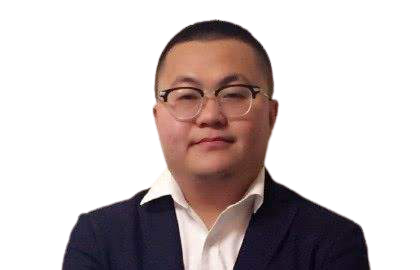
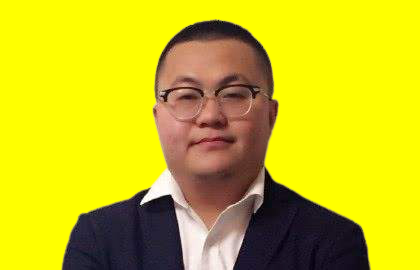
second commit

diff --git a/RemoveBG_Color.py b/RemoveBG_Color.py
@@ -17,7 +17,7 @@ Imgname = "sunxiaochuan.jpeg"
 outImagePath = ""
 
 # 需要替换的颜色 RGB 值
-changeColor = (255, 255, 255)  # 白色
+changeColor = (255, 255, 0)  # 白色
 
 
 folder = os.getcwd() + '\\img\\'

diff --git a/README.md b/README.md
@@ -1,1 +1,73 @@
 # Focus-removebg
+
+本项目为利用removebg的接口实现的自动替换证件照背景色的PYTHON小工具，并随项目一共副赠几个已经申请了的API接口，每一个API接口每个月可以免费使用50次。
+
+#### 运行前需求：
+
+安装pillow使用
+
+> pip install pillow
+
+或者
+
+> pip install -r requirements.txt
+
+#### 运行时：
+
+直接python RemoveBG_Color.py 即可
+
+#### 程序修改说明：
+
+\# API KEY这里填写申请得到的API
+
+APIkey = "swgmh9EQKCxBbEv52CJMqNpE"
+
+
+
+\# 输入 -- 需要修改的图片，请放在img文件夹下
+
+Imgname = "sunxiaochuan.jpeg"
+
+
+
+\# 输出 -- 填空则为默认地址out/ans.png
+
+outImagePath = ""
+
+
+
+\# 需要替换的颜色 RGB 值，自己百度一下RGB色轮表即可
+
+changeColor = (255, 255, 255) 
+
+
+
+#### 提供的几个邮箱和API
+
+| mail                                                        | API                      |
+| ----------------------------------------------------------- | ------------------------ |
+| [vss6jwct29pw@163.com](mailto:vss6jwct29pw@163.com)         | L3m76WEGhFpTUTZoL5JX1i8c |
+| [iwcmzjp69gtzgjz3@163.com](mailto:iwcmzjp69gtzgjz3@163.com) | swgmh9EQKCxBbEv52CJMqNpE |
+| [rb1brel18ey@163.com](mailto:rb1brel18ey@163.com)           | Fd7aGL8iDDaTvP3NbVFPczqW |
+| [j0jwjt0gmt@163.com](mailto:j0jwjt0gmt@163.com)             | gbs4wR7Rcr7VzdXcETx1xTAH |
+| [ms5icpzfpvp@163.com](mailto:ms5icpzfpvp@163.com)           | o1o22TyLk3NNnvnCEh8aFqas |
+
+#### 生成：
+
+如例：
+
+在img文件夹中放有：sunxiaochuan.jpeg
+
+![sunxiaochuan](.\img\sunxiaochuan.jpeg)
+
+运行后在img生成一个无背景图片的缓存文件sunxiaochuan.jpeg_no_bg.png
+
+![sunxiaochuan.jpeg_no_bg](.\img\sunxiaochuan.jpeg_no_bg.png)
+
+如果没有特殊的输出需求，则默认在out文件夹中生成一个经过颜色替换后的图片
+
+![ans](D:\work\Python_code_mine\Focus_new\out\ans.png)
+
+
+
+各种升级修改任君想象，由于API地址已经开源，因此建议由此需求的项目可以自行批量注册一批API
